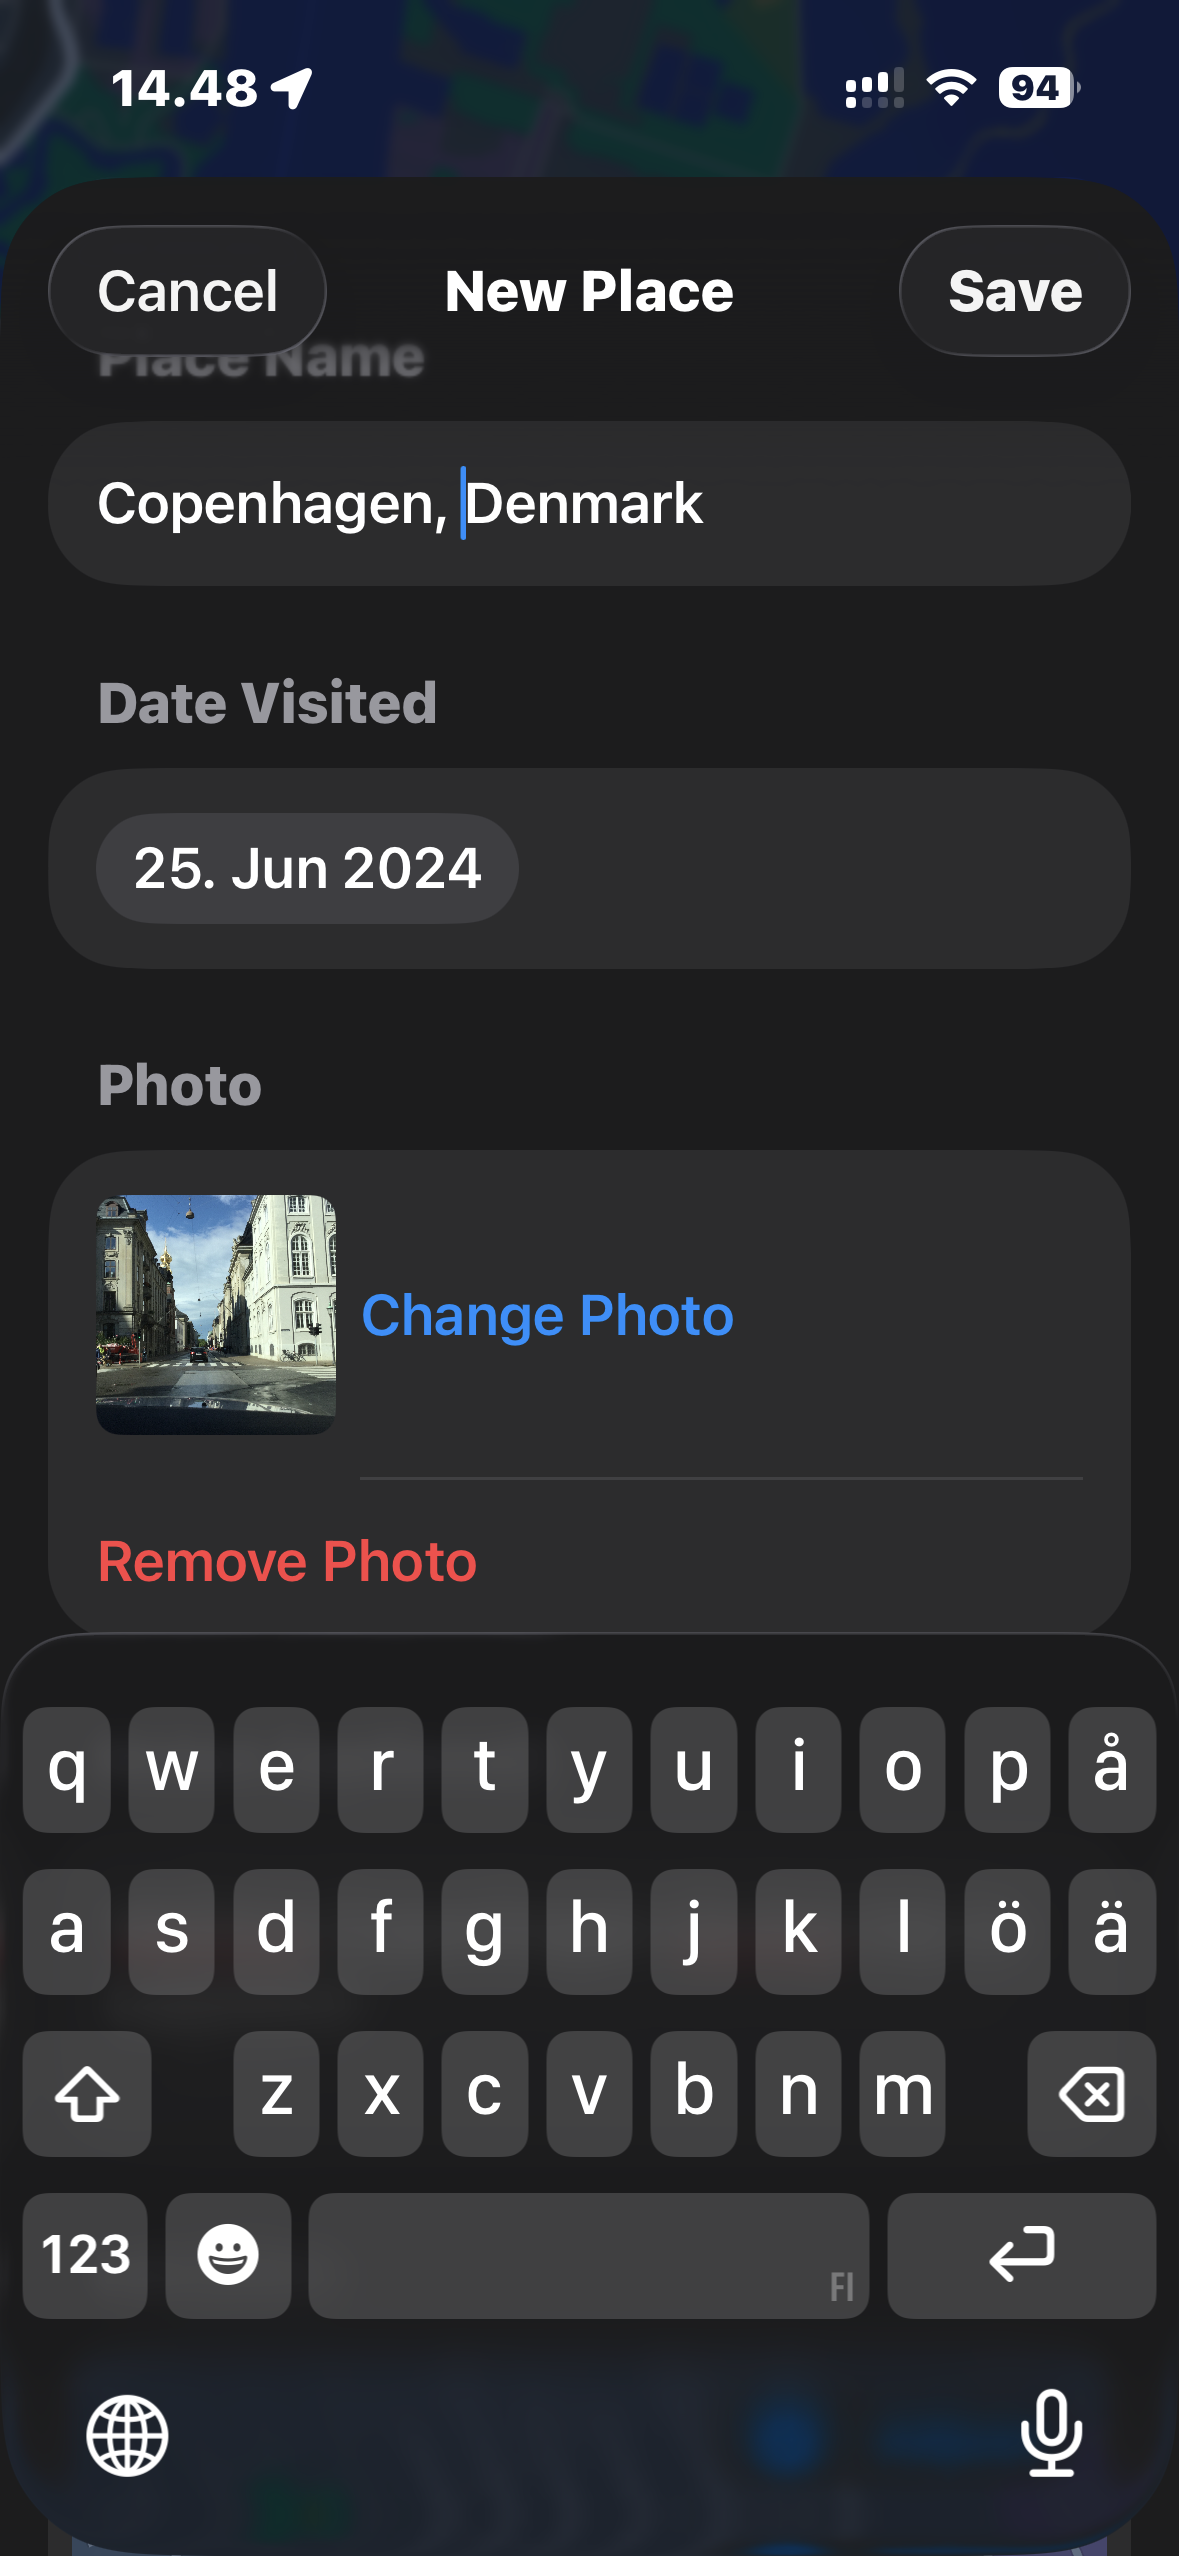
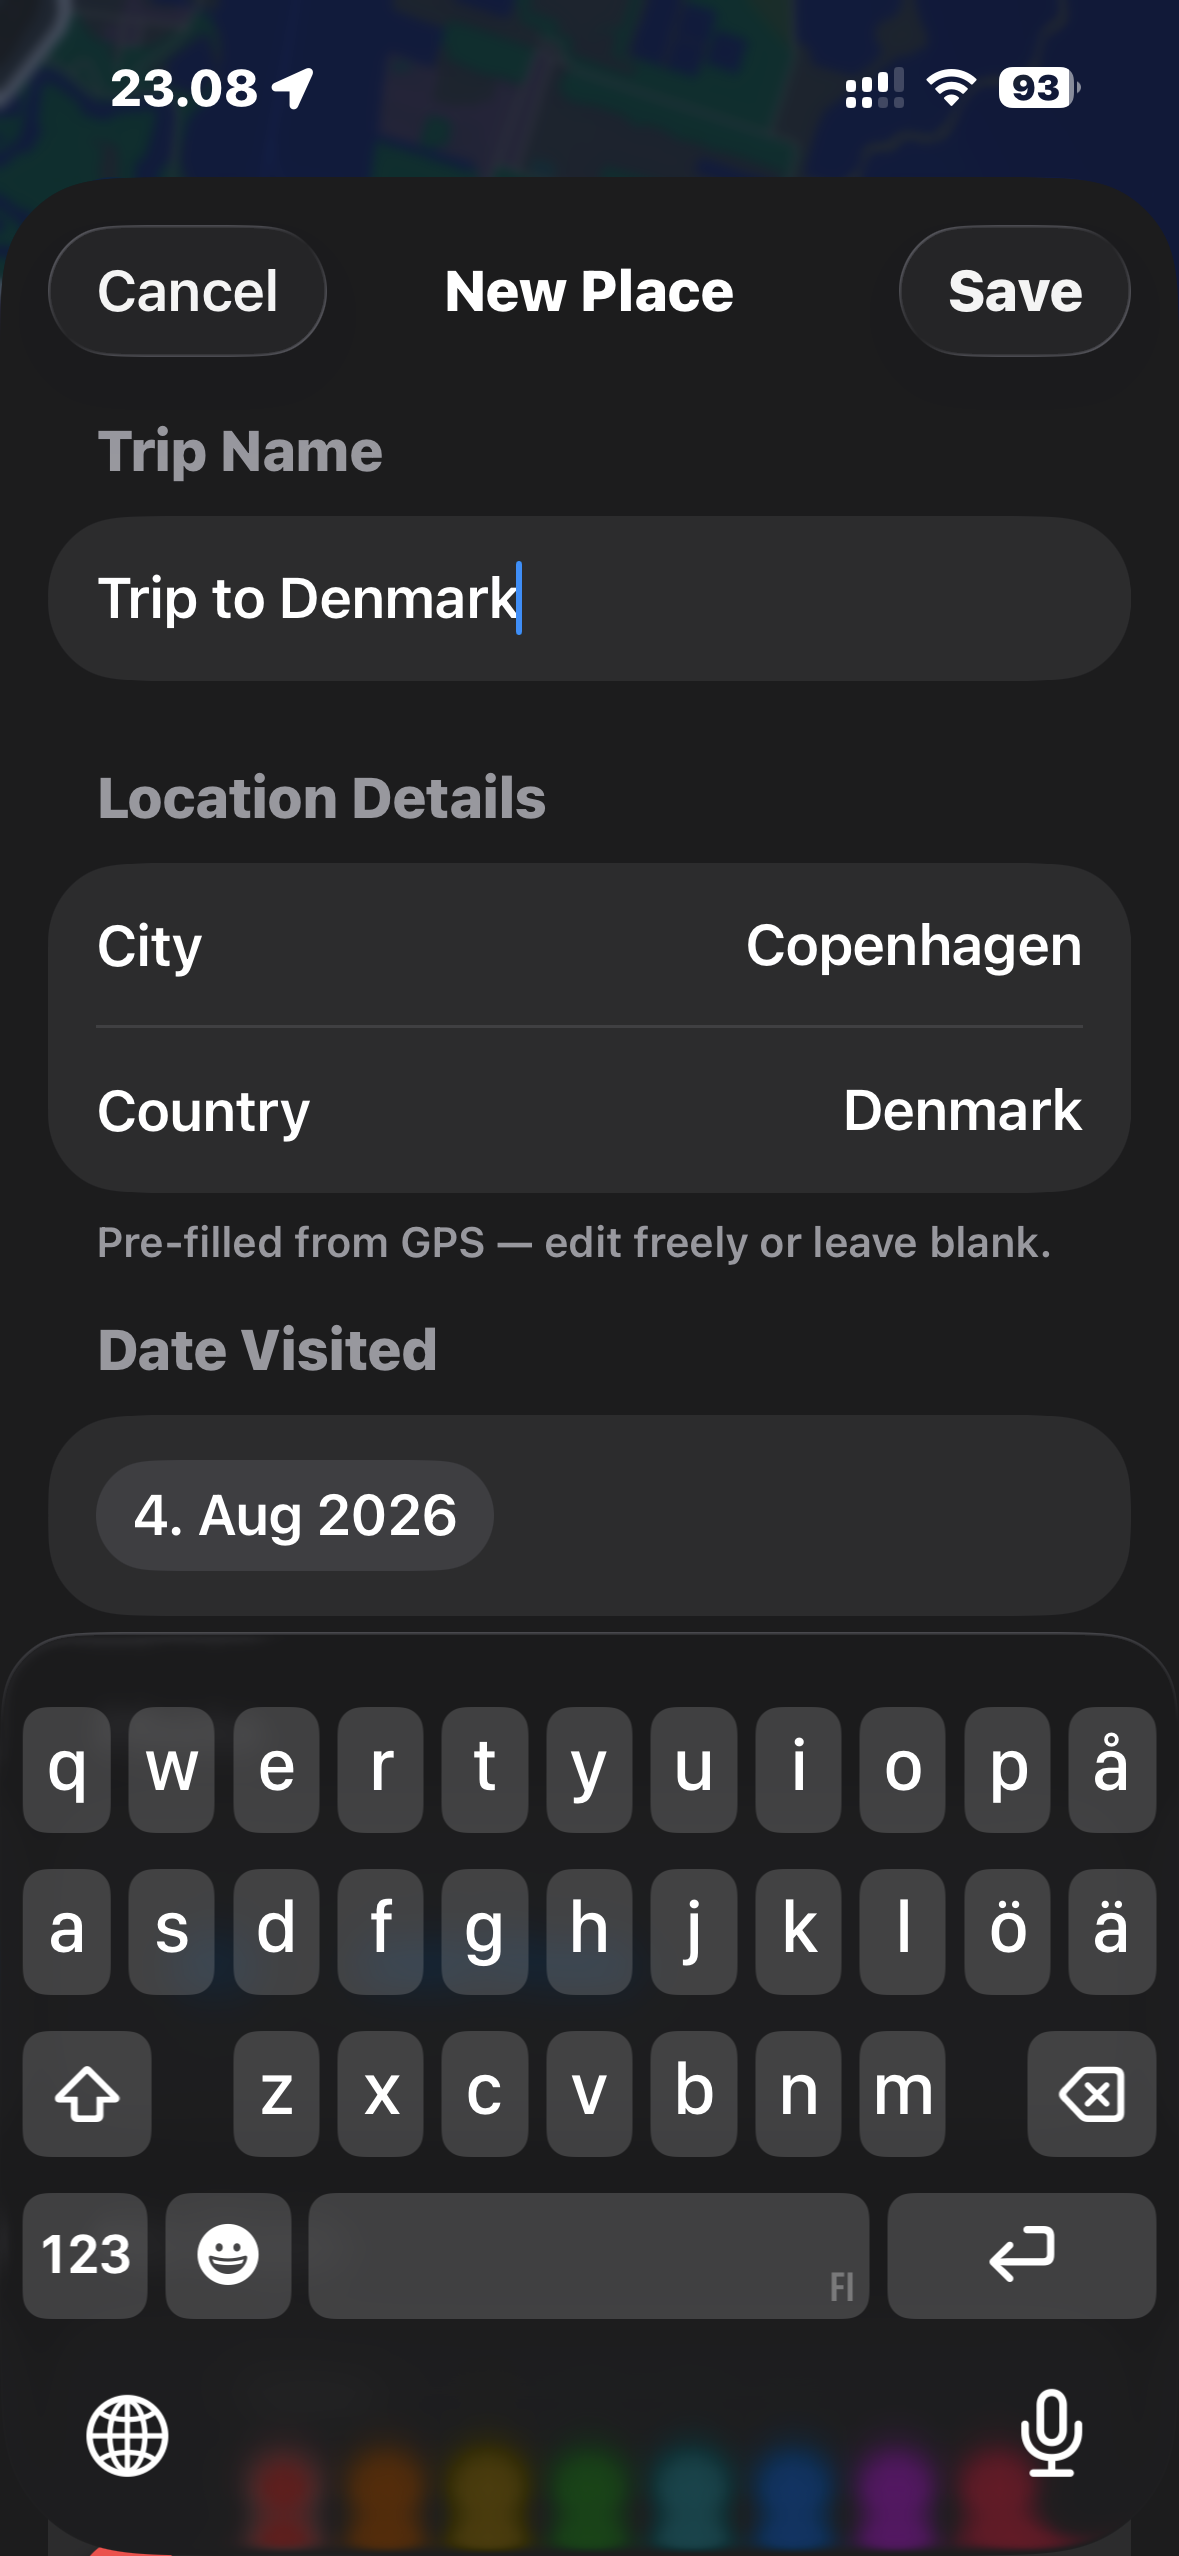
v1.1 — updated user guide and screenshots
- README.md fully rewritten for v1.1 (map style picker, search bars,
  city/country fields, custom pin styles, tappable mini-map, 8 sort options)
- 8 existing screenshots updated for v1.1 UI
- 4 new screenshots added:
  01b_map_overview.png  — map style picker open
  04b_add_place.png     — Photo and Pin Style sections
  04c_add_place.png     — Notes and Location sections
  06b_places_list.png   — search bar open in Places list

diff --git a/README.md b/README.md
@@ -34,12 +34,26 @@ When you open the app for the first time:
 
 ## 2. Map Tab
 
-The Map tab shows a full-screen map with red pins marking all your saved places.
+The Map tab shows a full-screen map with custom pins marking all your saved places.
 
 <img src="Images/01_map_overview.png" width="300" alt="Map tab with saved place pins">
 
+### Change the map style
+
+<img src="Images/01b_map_overview.png" width="300" alt="Map style picker showing Standard, Hybrid and Satellite options">
+
+Tap the small **map style button** in the bottom-left corner of the map. Three tiles appear — tap **Standard**, **Hybrid**, or **Satellite** to switch. Tap the button again to collapse the picker. Your choice is remembered.
+
 ### Zoom to fit all places
 Tap the **pin icon** (top-left toolbar button) to zoom the map out so all your saved places are visible at once.
+
+### Search for a location
+
+Tap the **🔍 search button** in the toolbar to reveal the search bar. Type a city or place name and select a result — the add sheet opens with the name and coordinates pre-filled.
+
+<img src="Images/03_map_search.png" width="300" alt="Search bar open with location results">
+
+Tap the search button again (or tap ✕) to hide the search bar.
 
 ### Add a place by dropping a pin
 
@@ -47,36 +61,35 @@ Tap the **pin icon** (top-left toolbar button) to zoom the map out so all your s
 
 1. Tap **+** in the top-right toolbar. An orange crosshair appears in the centre of the map.
 2. Pan and zoom the map until the crosshair is over the location you want to add.
-3. Tap **Place here**. The app reverse-geocodes the coordinates and pre-fills the place name as *City, Country*.
+3. Tap **Place here**. The app reverse-geocodes the coordinates and pre-fills the trip name as *City, Country*.
 4. Edit the name, date, photo, and notes if needed.
 5. Tap **Save**.
 
-### Add a place by searching
-
-<img src="Images/03_map_search.png" width="300" alt="Search bar open with location results">
-
-1. Tap the **search bar** at the top of the map and type a city or place name.
-2. Select a result from the list. The add sheet opens with the name and coordinates already filled in.
-3. Edit if needed, then tap **Save**.
-
 ### View or edit a saved place
-Tap any red pin on the map to open the place detail sheet.
+Tap any pin on the map to open the place detail sheet.
 
 ---
 
 ## 3. Add / Edit Place Sheet
 
-<img src="Images/04_add_place.png" width="300" alt="Add place form with name, date, photo and location preview">
+<img src="Images/04_add_place.png" width="300" alt="Add place form showing Trip Name, Location Details and Date sections">
 
 A form sheet for creating or editing a place record.
 
 | Field | Details |
 |---|---|
-| Place Name | Free-text, required. Pre-filled from geocoding or search. |
+| Trip Name | Free-text, required. Pre-filled from geocoding or search as *City, Country*. Can be changed to any custom name (e.g. "Mediterranean trip"). |
+| City | Optional. Auto-filled from GPS — edit if needed or leave blank. |
+| Country | Optional. Auto-filled from GPS — edit if needed or leave blank. |
 | Date Visited | Date picker, defaults to today. |
 | Photo | Optional. Chosen from the photo library. |
+| Pin Style | Pick a colour (8 swatches) and an icon (16 symbols). A live preview shows how your pin will look on the map. If a photo is set, the photo is always shown on the pin. |
 | Notes | Optional multi-line text. |
-| Location preview | Embedded mini-map showing the pin. Tap **Adjust** to fine-tune the pin position. |
+| Location preview | Embedded mini-map. Tap **Adjust** to fine-tune the pin position. |
+
+<img src="Images/04b_add_place.png" width="300" alt="Add place form showing Photo and Pin Style sections">
+
+<img src="Images/04c_add_place.png" width="300" alt="Add place form showing Notes and Location sections">
 
 ### Adjust the location
 Tap **Adjust** below the location preview map. An orange crosshair appears — pan the map to the precise position, then tap **Use this location** to confirm.
@@ -90,7 +103,7 @@ Tap **Adjust** below the location preview map. An orange crosshair appears — p
 Tapping a place (from the map or the list) opens a detail sheet showing:
 
 - Place name, date visited, and GPS coordinates
-- A mini-map centred on the location
+- A mini-map centred on the location — **tap the mini-map** to jump to that place on the main Map tab
 - Notes (if any were added)
 - A photo (if one was added)
 
@@ -100,9 +113,17 @@ Tap **Edit** to open the edit form, or **Delete Place** at the bottom to remove 
 
 ## 5. Places Tab
 
-<img src="Images/06_places_list.png" width="300" alt="Places list showing saved locations">
+<img src="Images/06_places_list.png" width="300" alt="Places list showing saved locations with search button in toolbar">
 
-The Places tab shows a list of all your saved places.
+The Places tab shows a list of all your saved places. Each row shows the trip name, city/country (if set), date, and notes snippet.
+
+### Search the list
+
+Tap the **🔍 search button** in the toolbar to reveal an inline search bar.
+
+<img src="Images/06b_places_list.png" width="300" alt="Places list with search bar open and results filtered">
+
+Type to filter by trip name, city, country, or notes. Tap the button again to hide the search bar and clear the filter.
 
 ### Sort the list
 
@@ -113,6 +134,10 @@ Tap the **sort button** (↑↓ circle icon) in the toolbar and choose from:
 - **Date (oldest first)**
 - **Name (A → Z)**
 - **Name (Z → A)**
+- **City (A → Z)**
+- **City (Z → A)**
+- **Country (A → Z)**
+- **Country (Z → A)**
 
 ### Delete a place
 Swipe left on any row and tap **Delete**.
@@ -129,6 +154,7 @@ Tap **⋯** in the top-right toolbar of the Places tab to access:
 - **Import Backup** — restore from a ZIP backup
 - **Get Locations from Shared Photo Albums** — import places from an iCloud Shared Album
 - **Explore Photos on Map** — browse your entire photo library on a map
+- **Help / User Guide** — opens this guide in Safari
 
 ---
 
@@ -213,8 +239,10 @@ Your places sync automatically across all your Apple devices signed into the sam
 
 - **Large photo library?** Explore Photos on Map handles tens of thousands of photos — it clusters them into city-level pins so the map stays fast and easy to use.
 - **Same city, many photos?** Both import features cluster nearby photos into a single place entry. The Shared Album import lets you choose the clustering radius (10, 20, 50, or 100 km) — use a smaller radius for dense city trips, larger for road trips. Explore Photos on Map uses a fixed ~50 km grid.
+- **Custom pins** — open any place in Edit to change its pin colour and icon. If you assign a photo to a place, the photo thumbnail is shown on the map instead.
+- **Jump to a place on the map** — from the Places tab, tap a place to open its detail, then tap the mini-map to switch to the Map tab centred on that place.
 - **Changed your mind about a photo?** Tap a saved place → Edit, then tap the photo thumbnail to pick a new one from your library.
-- **Moved to a new phone?** Export a backup on the old phone, AirDrop the ZIP to the new phone, then Import Backup → Replace All. All your places and photos will be there.
+- **Moved to a new phone?** Export a backup on the old phone, AirDrop the ZIP to the new phone, then Import Backup → Replace All. All your places, photos, and pin styles will be there.
 
 ---
 
